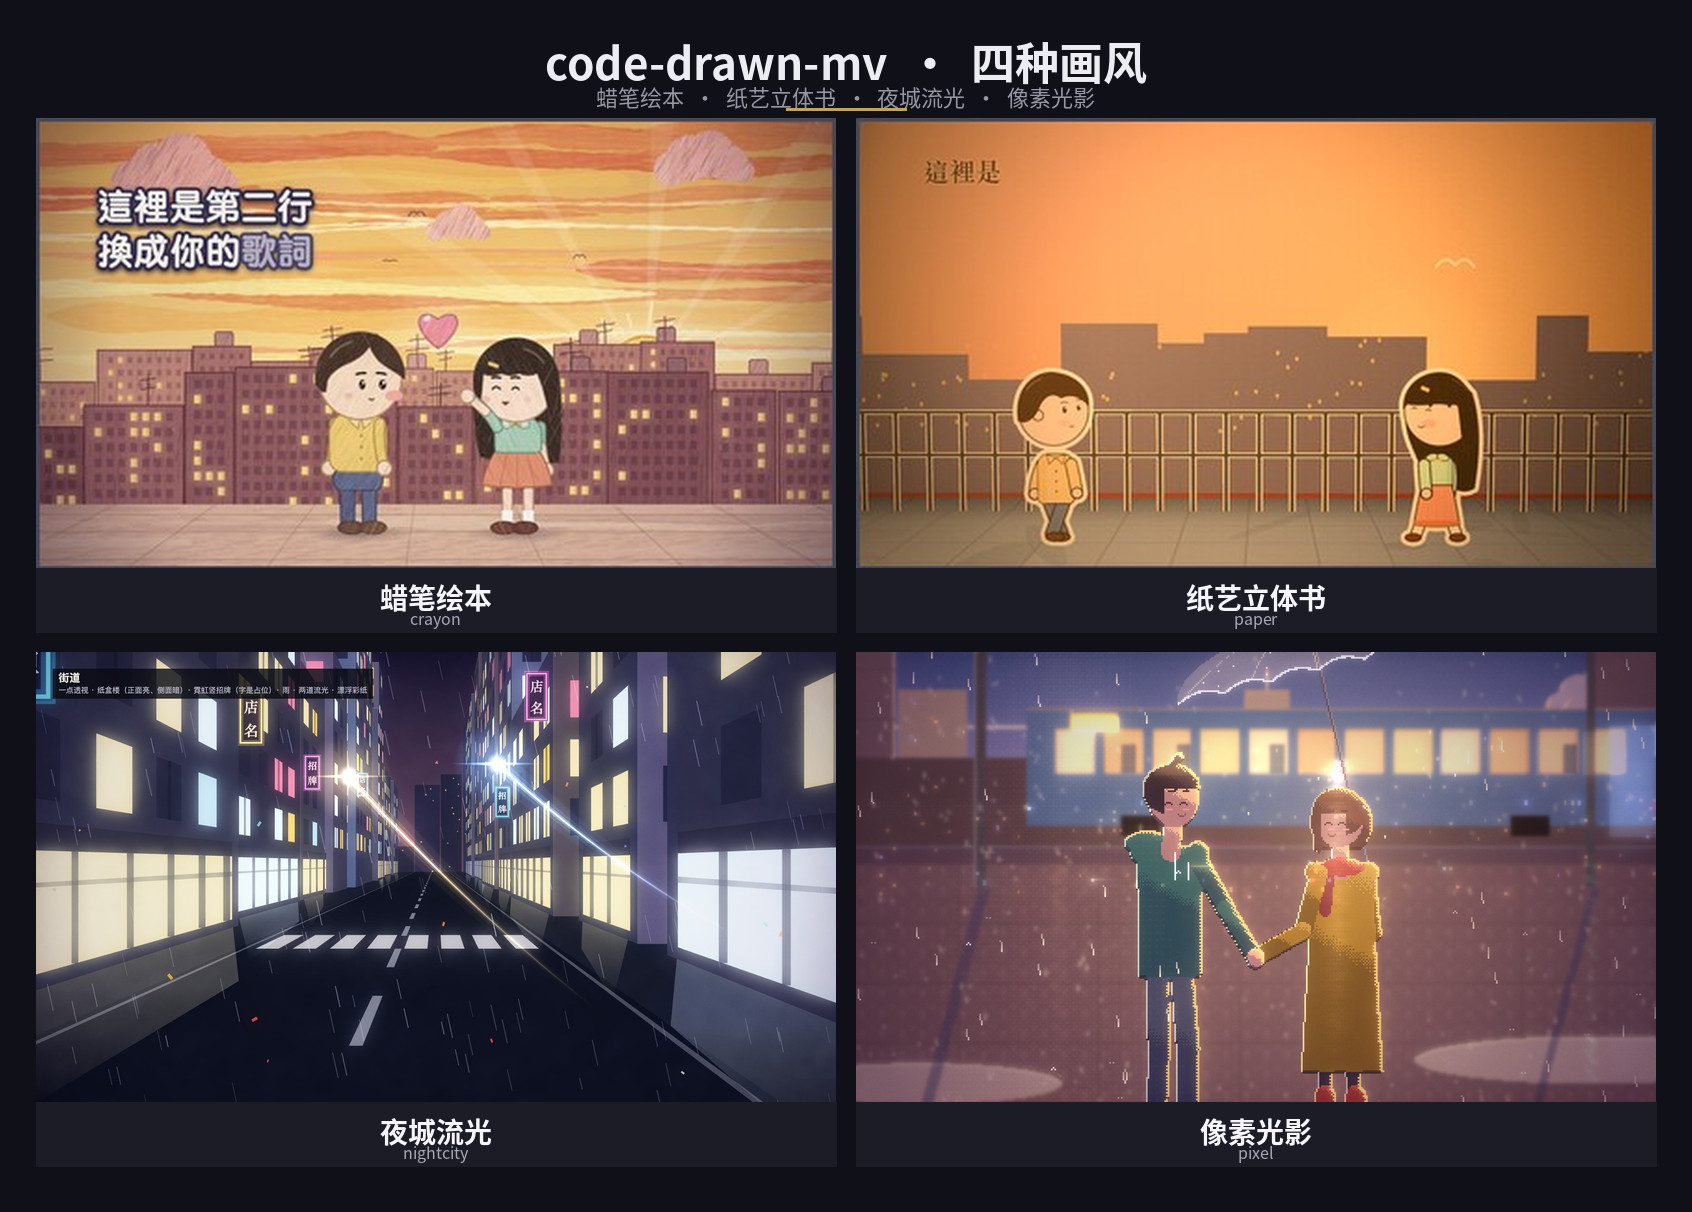
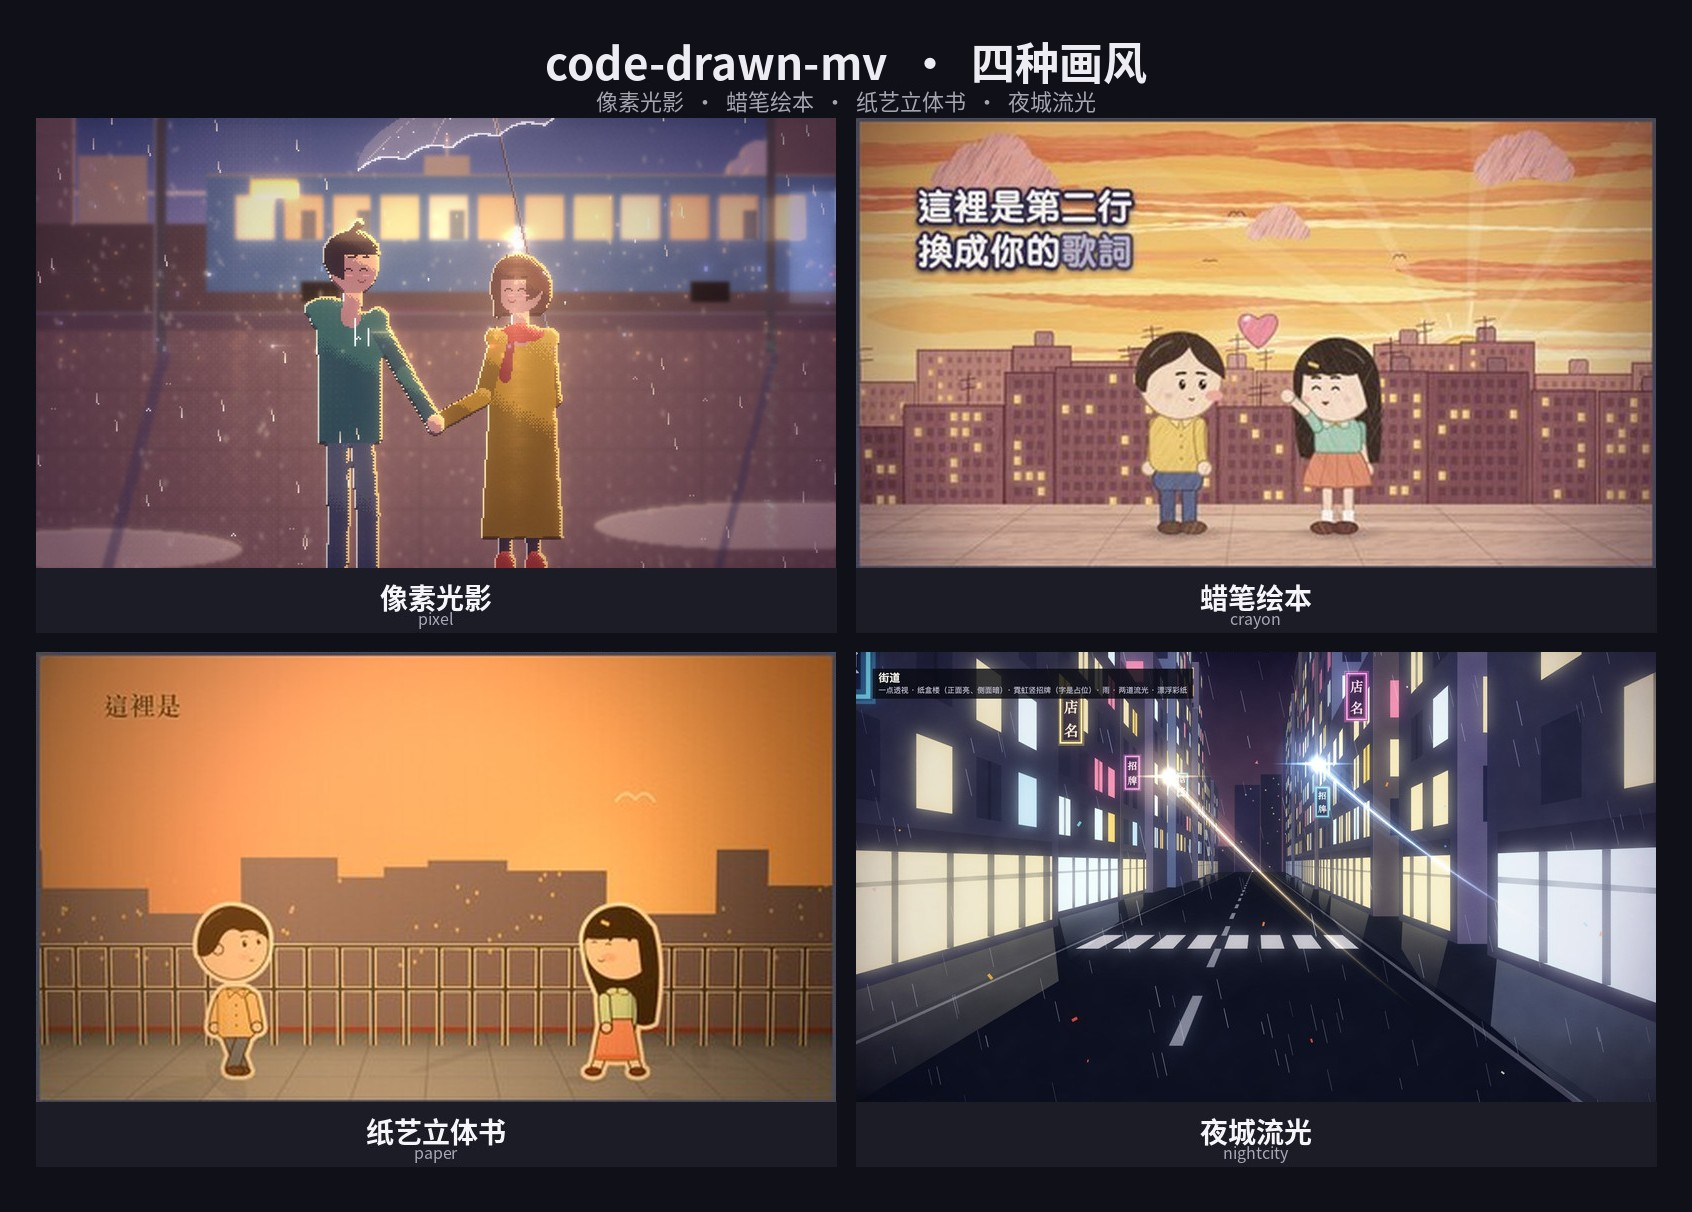
README: put pixel-art style first in showcase grid

diff --git a/README.md b/README.md
@@ -5,7 +5,7 @@
 A Claude Code skill for making lyric and music videos whose every frame is drawn in JavaScript (Canvas 2D or Three.js) and rendered with [HyperFrames](https://github.com/heygen-com/hyperframes). Four starter styles are included. The one to look at first is **像素光影** — sharp pixel art whose light, shadow, rim light and bloom are computed from real light sources, at any time of day and in any weather.
 
 <p align="center">
-  <img src="docs/showcase.jpg" alt="四种画风预览：蜡笔绘本、纸艺立体书、夜城流光、像素光影" width="100%">
+  <img src="docs/showcase.jpg" alt="四种画风预览：像素光影、蜡笔绘本、纸艺立体书、夜城流光" width="100%">
 </p>
 
 <p align="center"><sub>参考图都是用起步代码现画的示意图，不是成片截图。角色、地点和画面上的字只是占位。</sub></p>
